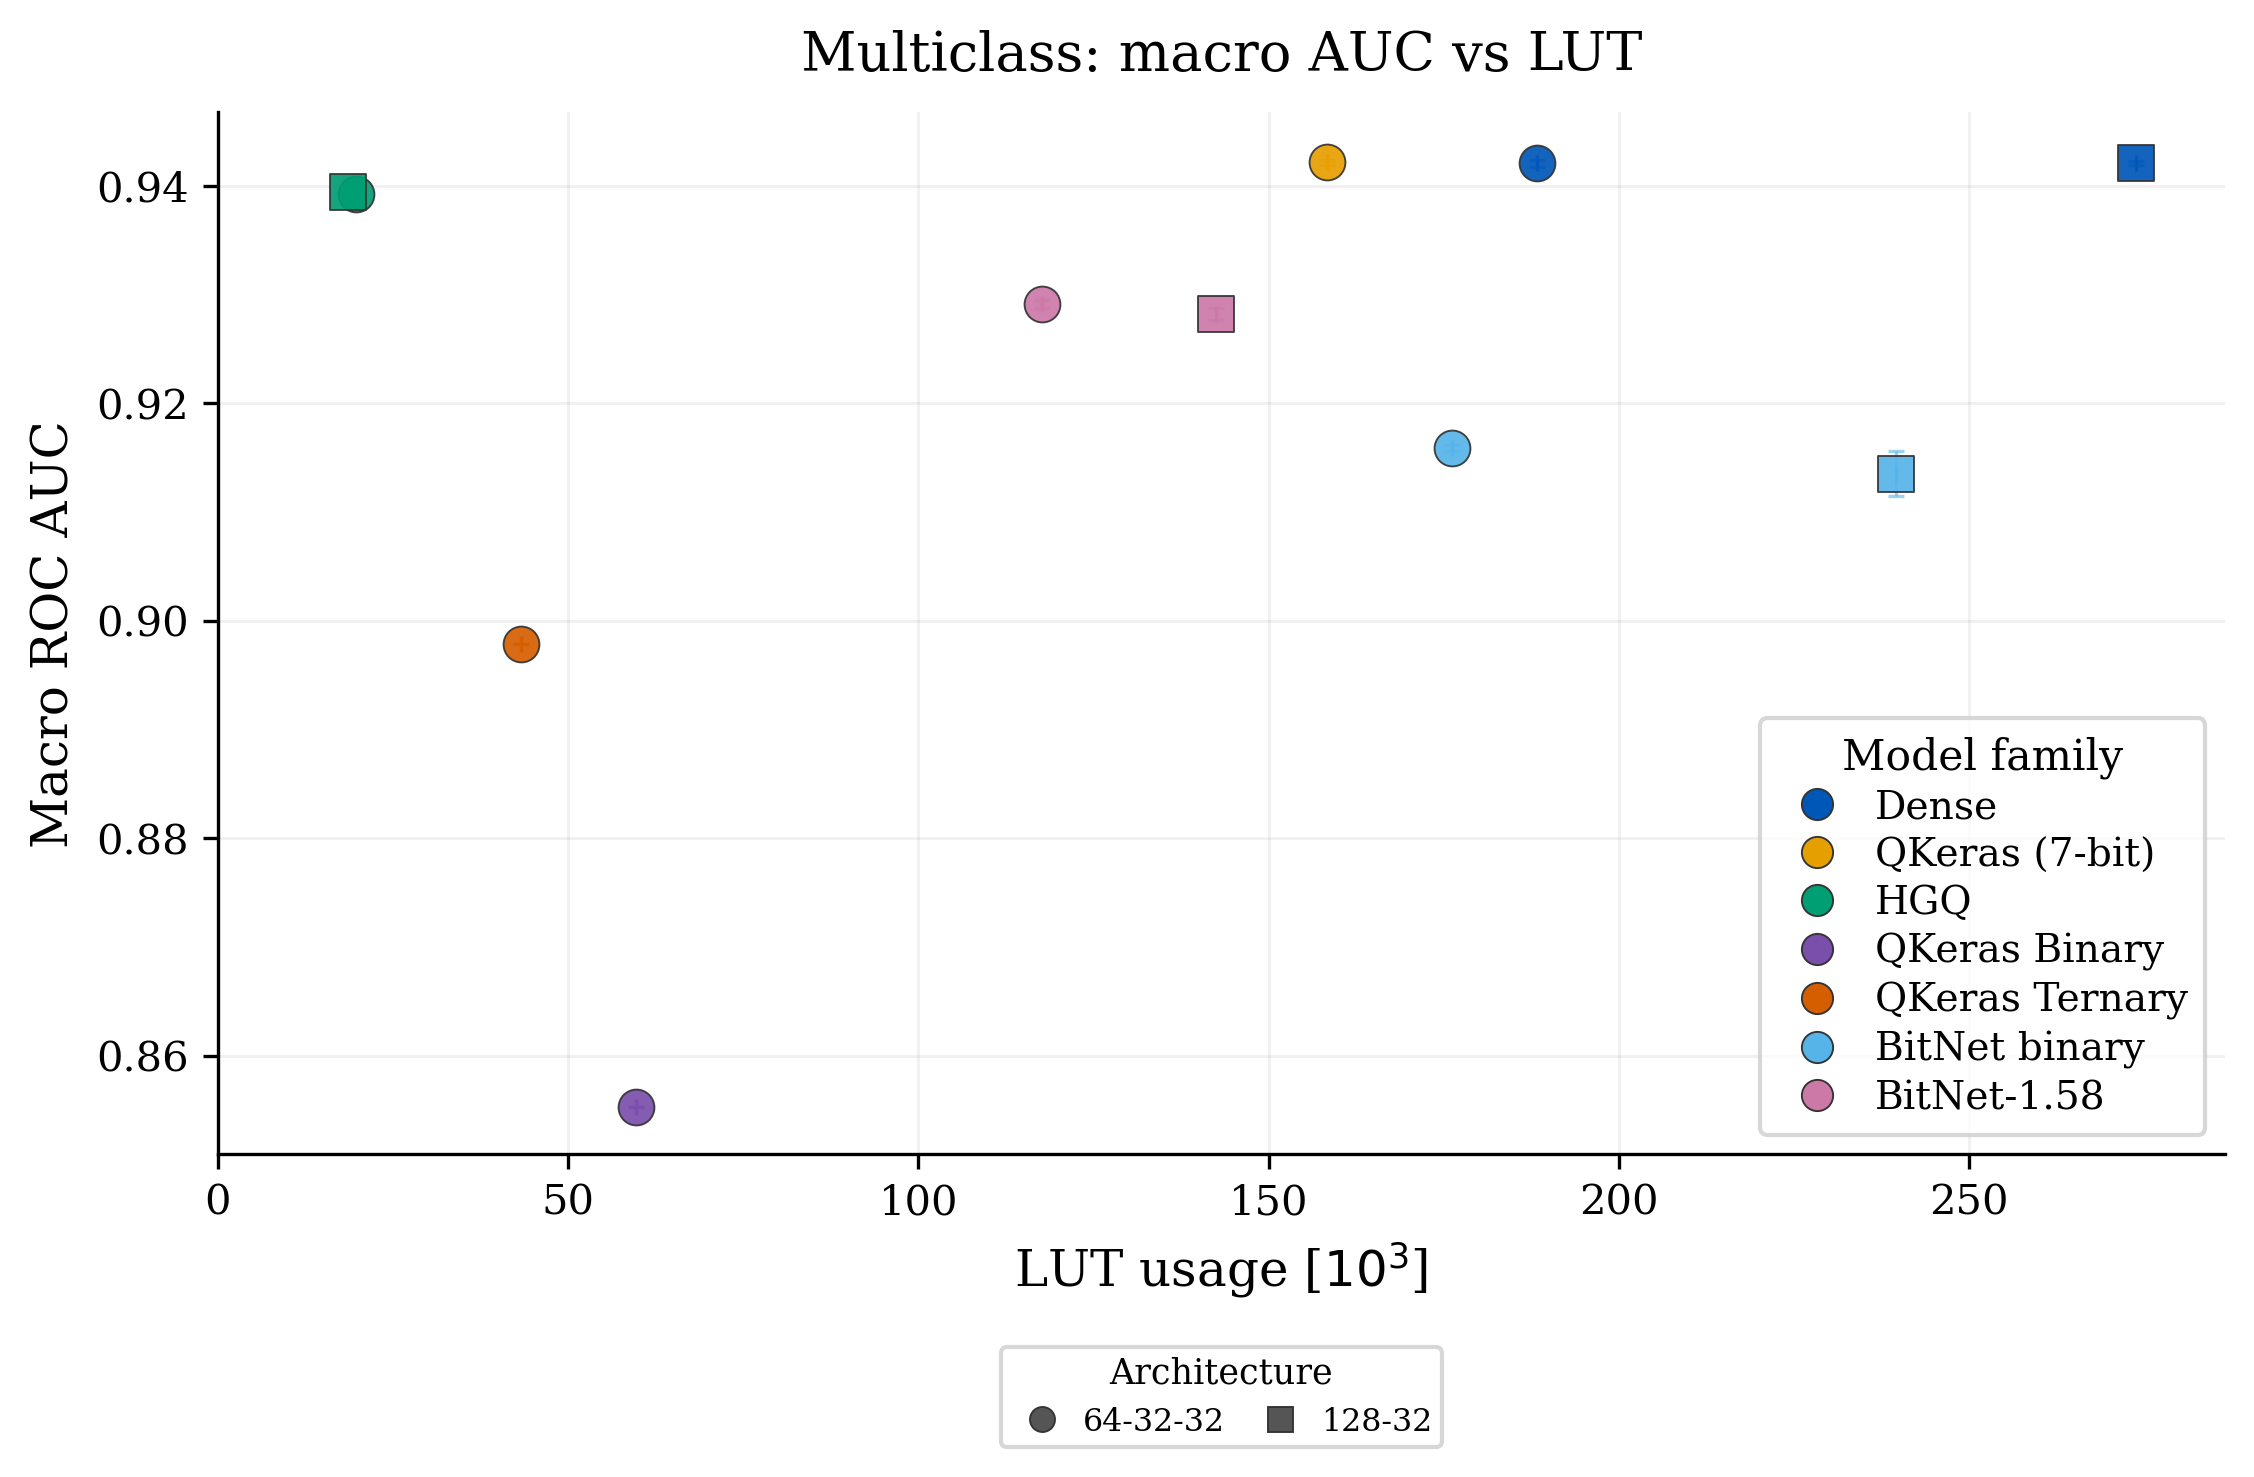
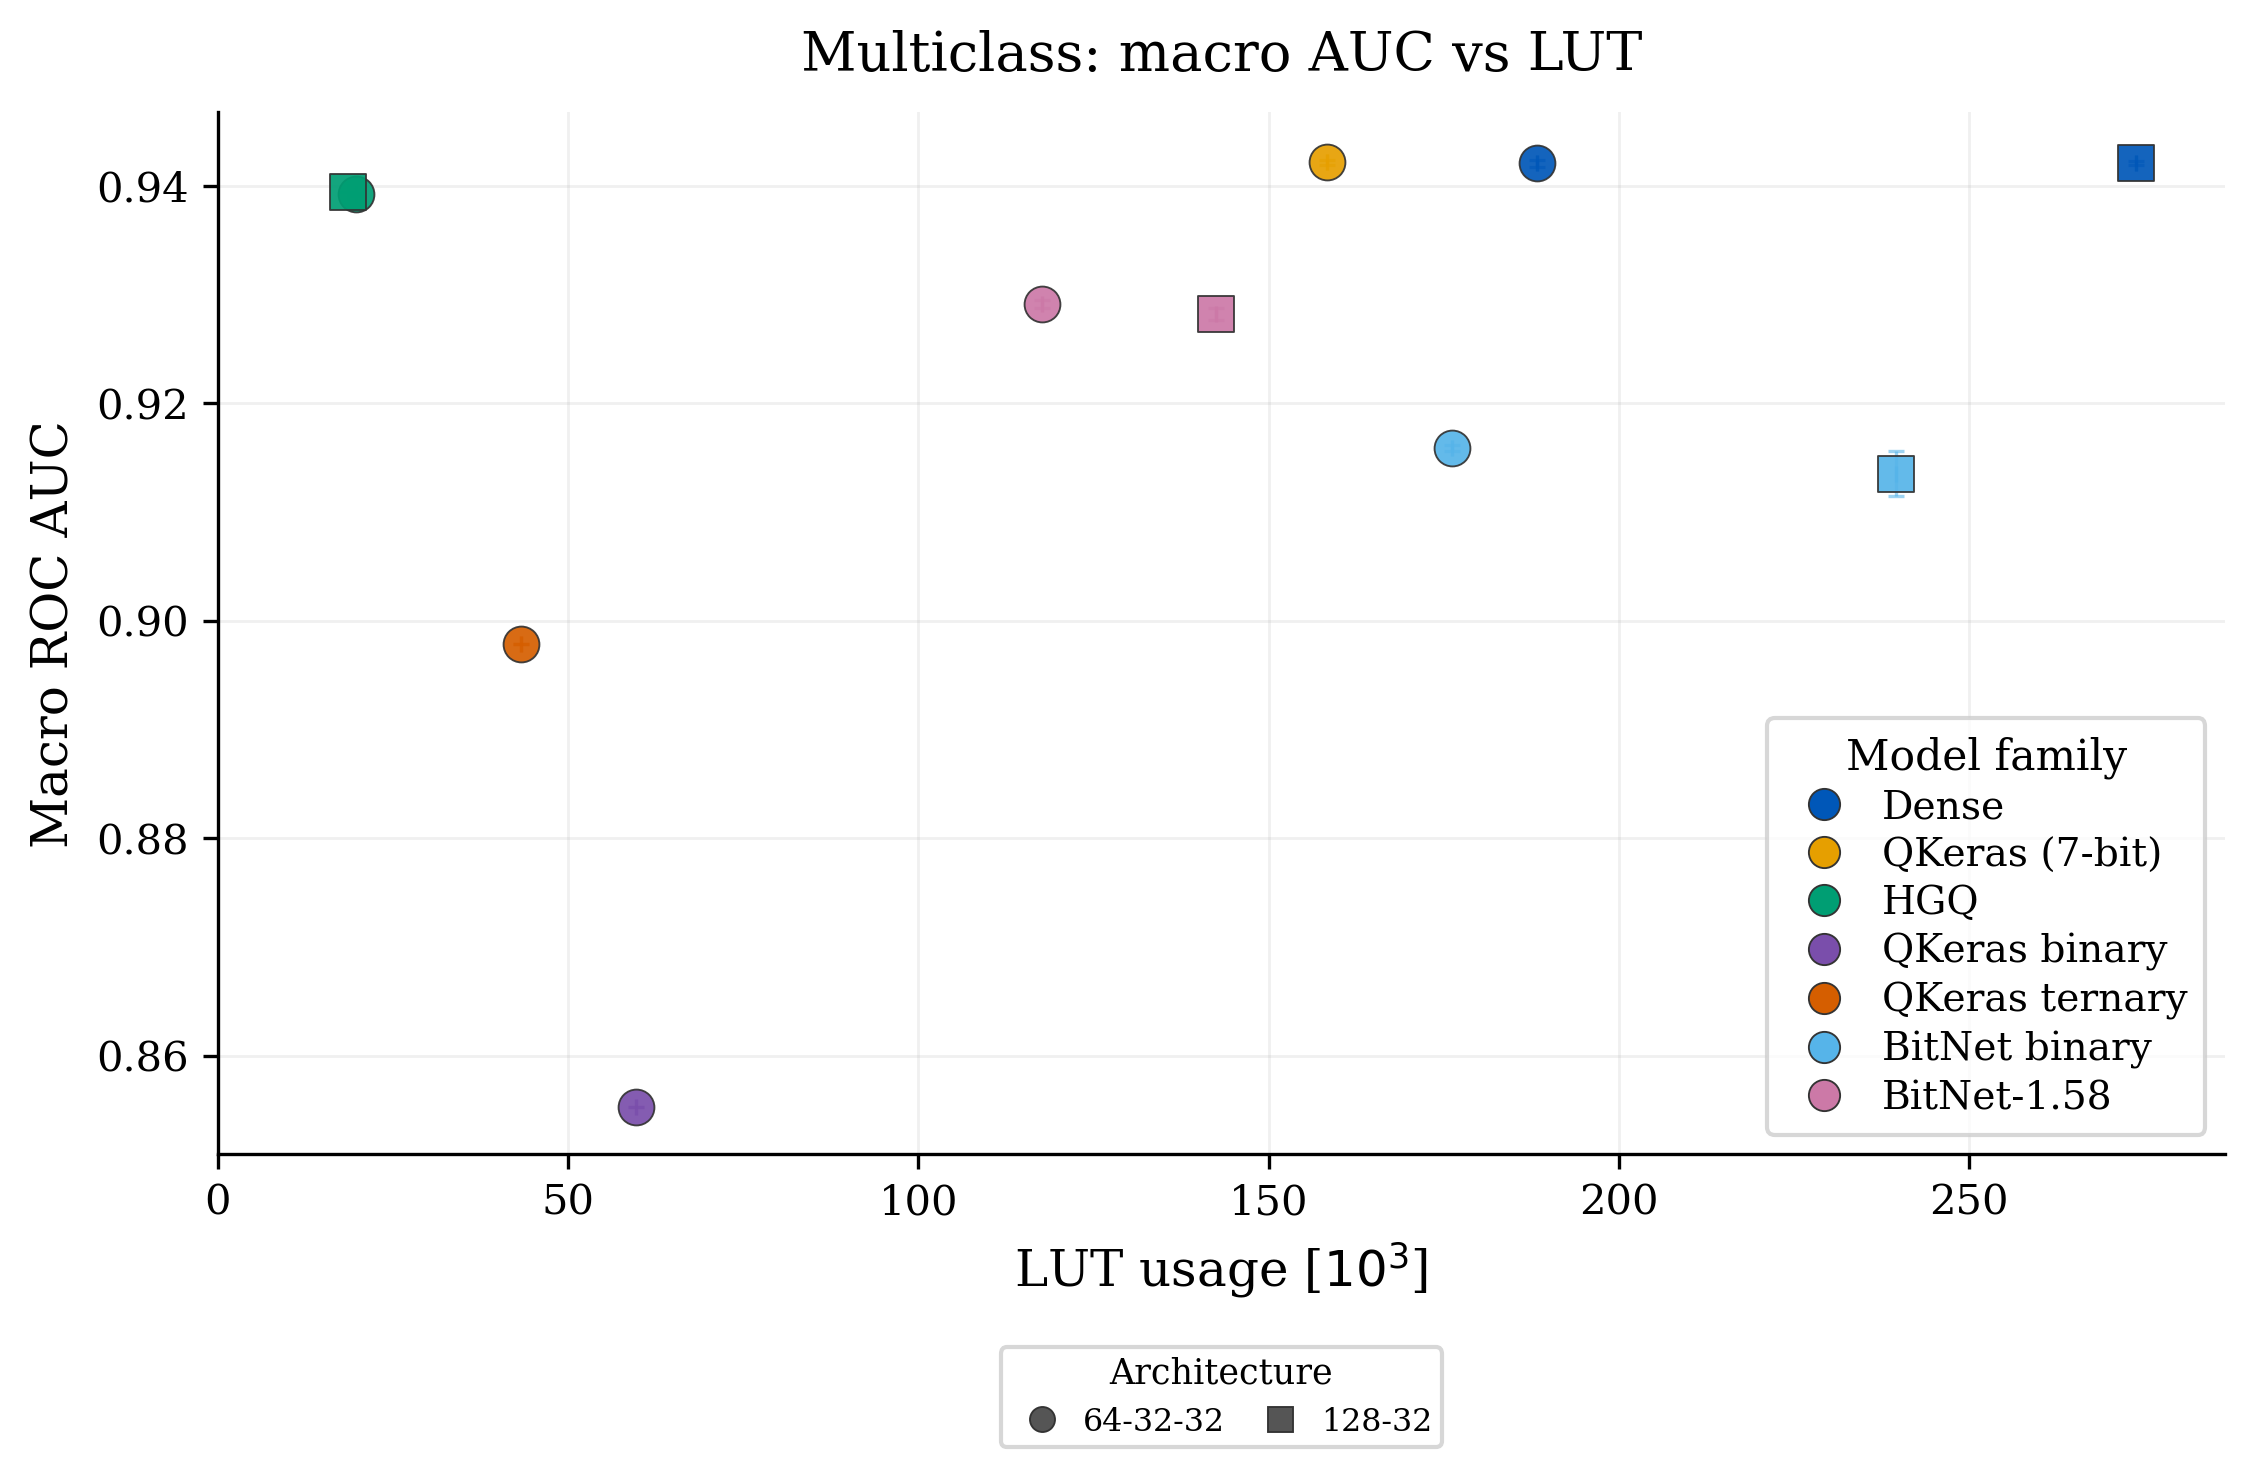
Use lowercase QKeras binary legend labels

Changed region(s): [[0.7764, 0.4983, 0.9627, 0.7786]]

diff --git a/scripts/generate_benchmark_artifacts.py b/scripts/generate_benchmark_artifacts.py
@@ -782,8 +782,8 @@ def legend_model_label(model: str) -> str:
         "Dense MLP": "Dense",
         "QKeras fixed b7": "QKeras (7-bit)",
         "HGQ": "HGQ",
-        "QKeras binary": "QKeras Binary",
-        "QKeras ternary": "QKeras Ternary",
+        "QKeras binary": "QKeras binary",
+        "QKeras ternary": "QKeras ternary",
         "BitNet binary": "BitNet binary",
         "Bit158 sparse ternary": "BitNet-1.58",
         "XGBoost BDT (unrolled)": "BDT (unrolled)",

diff --git a/scripts/reproduce_public_artifacts.py b/scripts/reproduce_public_artifacts.py
@@ -119,8 +119,8 @@ def legend_model_label(model: str) -> str:
         "Dense MLP": "Dense",
         "QKeras fixed b7": "QKeras (7-bit)",
         "HGQ": "HGQ",
-        "QKeras binary": "QKeras Binary",
-        "QKeras ternary": "QKeras Ternary",
+        "QKeras binary": "QKeras binary",
+        "QKeras ternary": "QKeras ternary",
         "BitNet binary": "BitNet binary",
         "Bit158 sparse ternary": "BitNet-1.58",
         "XGBoost BDT (unrolled)": "BDT (unrolled)",
